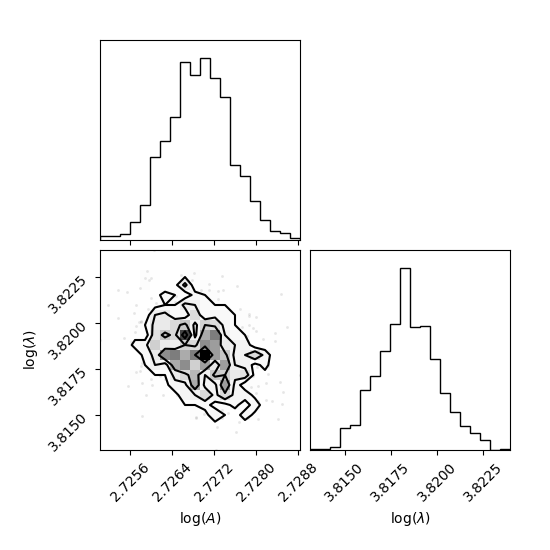
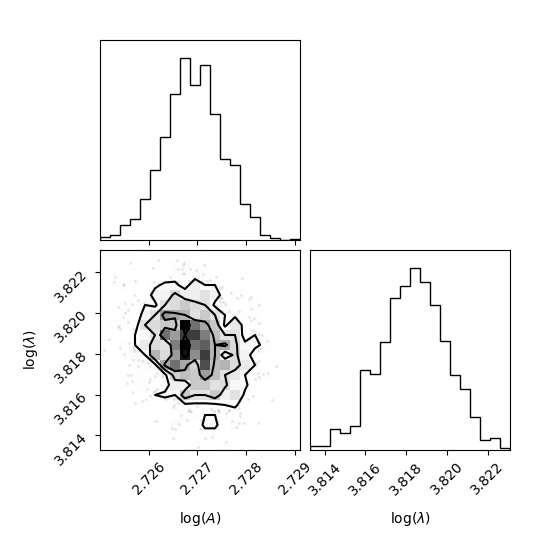
DOC: Updates on the UQ example
* Reduce the number of iteration to 5000
* autocorr calculation uses the remaining chains after discarding the
burn-in time

diff --git a/docs/source/auto_examples/example_uq_mcmc.py b/docs/source/auto_examples/example_uq_mcmc.py
@@ -173,7 +173,7 @@ for ii, bound in enumerate(bounds):
     p0[:, :, ii] = np.random.uniform(*bound, (4, 4))
 
 # Run MCMC
-sampler.run_mcmc(p0, 10000)
+sampler.run_mcmc(p0, 5000)
 
 # Retrieve the chain
 chain = sampler.chain
@@ -214,9 +214,11 @@ print(f"Estimated burn-in time: {burnin}")
 
 
 # Estimate the autocorrelation length for each temperature
+chain_no_burnin = chain[:, :, burnin:]
+
 acorr_array = np.empty((ntemps, nwalkers, ndim))
 for tidx in range(ntemps):
-    acorr_array[tidx] = autocorr(chain[tidx], c=1, quiet=True)
+    acorr_array[tidx] = autocorr(chain_no_burnin[tidx], c=1, quiet=True)
 
 thin = int(np.ceil(np.max(acorr_array)))
 print(f"Estimated autocorrelation length: {thin}")
@@ -239,7 +241,7 @@ print(f"Estimated autocorrelation length: {thin}")
 
 
 # Assess the convergence for each temperature
-samples = chain[:, :, burnin::thin]
+samples = chain_no_burnin[:, :, ::thin]
 
 threshold = 1.1  # Threshold for rhat
 rhat_array = np.empty(ntemps)

diff --git a/examples/example_uq_mcmc.py b/examples/example_uq_mcmc.py
@@ -173,7 +173,7 @@ for ii, bound in enumerate(bounds):
     p0[:, :, ii] = np.random.uniform(*bound, (4, 4))
 
 # Run MCMC
-sampler.run_mcmc(p0, 10000)
+sampler.run_mcmc(p0, 5000)
 
 # Retrieve the chain
 chain = sampler.chain
@@ -214,9 +214,11 @@ print(f"Estimated burn-in time: {burnin}")
 
 
 # Estimate the autocorrelation length for each temperature
+chain_no_burnin = chain[:, :, burnin:]
+
 acorr_array = np.empty((ntemps, nwalkers, ndim))
 for tidx in range(ntemps):
-    acorr_array[tidx] = autocorr(chain[tidx], c=1, quiet=True)
+    acorr_array[tidx] = autocorr(chain_no_burnin[tidx], c=1, quiet=True)
 
 thin = int(np.ceil(np.max(acorr_array)))
 print(f"Estimated autocorrelation length: {thin}")
@@ -239,7 +241,7 @@ print(f"Estimated autocorrelation length: {thin}")
 
 
 # Assess the convergence for each temperature
-samples = chain[:, :, burnin::thin]
+samples = chain_no_burnin[:, :, ::thin]
 
 threshold = 1.1  # Threshold for rhat
 rhat_array = np.empty(ntemps)

diff --git a/docs/source/auto_examples/example_uq_mcmc.rst b/docs/source/auto_examples/example_uq_mcmc.rst
@@ -151,11 +151,11 @@ information about this step can be found in :ref:`tut_kim_sw` and
 
     /home/yonatank/.local/lib/python3.8/site-packages/numpy/linalg/linalg.py:2500: VisibleDeprecationWarning: Creating an ndarray from ragged nested sequences (which is a list-or-tuple of lists-or-tuples-or ndarrays with different lengths or shapes) is deprecated. If you meant to do this, you must specify 'dtype=object' when creating the ndarray.
       x = asarray(x)
-    2022-05-31 21:58:08.804 | INFO     | kliff.dataset.dataset:_read:397 - 4 configurations read from /home/yonatank/modules/kliff/examples/Si_training_set_4_configs
-    2022-05-31 21:58:08.806 | INFO     | kliff.calculators.calculator:create:107 - Create calculator for 4 configurations.
-    2022-05-31 21:58:08.807 | INFO     | kliff.loss:minimize:290 - Start minimization using method: L-BFGS-B.
-    2022-05-31 21:58:08.807 | INFO     | kliff.loss:_scipy_optimize:404 - Running in serial mode.
-    2022-05-31 21:58:08.941 | INFO     | kliff.loss:minimize:292 - Finish minimization using method: L-BFGS-B.
+    2022-06-02 10:34:33.398 | INFO     | kliff.dataset.dataset:_read:397 - 4 configurations read from /home/yonatank/modules/kliff/examples/Si_training_set_4_configs
+    2022-06-02 10:34:33.402 | INFO     | kliff.calculators.calculator:create:107 - Create calculator for 4 configurations.
+    2022-06-02 10:34:33.403 | INFO     | kliff.loss:minimize:290 - Start minimization using method: L-BFGS-B.
+    2022-06-02 10:34:33.404 | INFO     | kliff.loss:_scipy_optimize:404 - Running in serial mode.
+    2022-06-02 10:34:33.575 | INFO     | kliff.loss:minimize:292 - Finish minimization using method: L-BFGS-B.
     #================================================================================
     # Model parameters that are optimized.
     # Note that the parameters are in the transformed space if 
@@ -289,7 +289,7 @@ to specify the number of steps or iterations to take.
         p0[:, :, ii] = np.random.uniform(*bound, (4, 4))
 
     # Run MCMC
-    sampler.run_mcmc(p0, 10000)
+    sampler.run_mcmc(p0, 5000)
 
     # Retrieve the chain
     chain = sampler.chain
@@ -357,16 +357,18 @@ every :math:`\tau`-th iteration from the remaining chain, where :math:`\tau` is 
 autocorrelation length, to ensure uncorrelated samples.
 This calculation can be done using :func:`~kliff.uq.mcmc_utils.autocorr`.
 
-.. GENERATED FROM PYTHON SOURCE LINES 214-225
+.. GENERATED FROM PYTHON SOURCE LINES 214-227
 
 .. code-block:: default
 
 
 
     # Estimate the autocorrelation length for each temperature
+    chain_no_burnin = chain[:, :, burnin:]
+
     acorr_array = np.empty((ntemps, nwalkers, ndim))
     for tidx in range(ntemps):
-        acorr_array[tidx] = autocorr(chain[tidx], c=1, quiet=True)
+        acorr_array[tidx] = autocorr(chain_no_burnin[tidx], c=1, quiet=True)
 
     thin = int(np.ceil(np.max(acorr_array)))
     print(f"Estimated autocorrelation length: {thin}")
@@ -382,12 +384,12 @@ This calculation can be done using :func:`~kliff.uq.mcmc_utils.autocorr`.
 
  .. code-block:: none
 
-    Estimated autocorrelation length: 48
+    Estimated autocorrelation length: 14
 
 
 
 
-.. GENERATED FROM PYTHON SOURCE LINES 226-239
+.. GENERATED FROM PYTHON SOURCE LINES 228-241
 
 .. note::
    :func:`~kliff.uq.mcmc_utils.acorr` is a wrapper for emcee.autocorr.integrated_time_,
@@ -403,14 +405,14 @@ reduction factor (PSRF), denoted by :math:`\hat{R}^p`. The value of :math:`\hat{
 declines to 1 as the number of iterations goes to infinity. A common threshold is about
 1.1, but higher threshold has also been used.
 
-.. GENERATED FROM PYTHON SOURCE LINES 239-252
+.. GENERATED FROM PYTHON SOURCE LINES 241-254
 
 .. code-block:: default
 
 
 
     # Assess the convergence for each temperature
-    samples = chain[:, :, burnin::thin]
+    samples = chain_no_burnin[:, :, ::thin]
 
     threshold = 1.1  # Threshold for rhat
     rhat_array = np.empty(ntemps)
@@ -430,12 +432,12 @@ declines to 1 as the number of iterations goes to infinity. A common threshold i
 
  .. code-block:: none
 
-    $\hat{r}^p$ values: [1.04731424 1.08606168 1.03525868 1.02960951]
+    $\hat{r}^p$ values: [1.0991534  1.07341457 1.07658106 1.02770675]
 
 
 
 
-.. GENERATED FROM PYTHON SOURCE LINES 253-265
+.. GENERATED FROM PYTHON SOURCE LINES 255-267
 
 .. note::
    :func:`~kliff.uq.mcmc_utils.rhat` only computes the PSRF for one temperature, so that
@@ -450,7 +452,7 @@ parameters can be obtained by observing the distribution of the samples. As an e
 we will use corner_ Python package to present the MCMC result at sampling
 temperature 1.0 as a corner plot.
 
-.. GENERATED FROM PYTHON SOURCE LINES 265-269
+.. GENERATED FROM PYTHON SOURCE LINES 267-271
 
 .. code-block:: default
 
@@ -478,7 +480,7 @@ temperature 1.0 as a corner plot.
 
 
 
-.. GENERATED FROM PYTHON SOURCE LINES 270-280
+.. GENERATED FROM PYTHON SOURCE LINES 272-282
 
 .. note::
    As an alternative, KLIFF also provides a wrapper to emcee_.This can be accessed by
@@ -494,7 +496,7 @@ temperature 1.0 as a corner plot.
 
 .. rst-class:: sphx-glr-timing
 
-   **Total running time of the script:** ( 5 minutes  44.727 seconds)
+   **Total running time of the script:** ( 3 minutes  9.781 seconds)
 
 
 .. _sphx_glr_download_auto_examples_example_uq_mcmc.py:

diff --git a/docs/source/auto_examples/sg_execution_times.rst b/docs/source/auto_examples/sg_execution_times.rst
@@ -5,10 +5,10 @@
 
 Computation times
 =================
-**05:44.727** total execution time for **auto_examples** files:
+**03:09.781** total execution time for **auto_examples** files:
 
 +---------------------------------------------------------------------------------------------------+-----------+--------+
-| :ref:`sphx_glr_auto_examples_example_uq_mcmc.py` (``example_uq_mcmc.py``)                         | 05:44.727 | 0.0 MB |
+| :ref:`sphx_glr_auto_examples_example_uq_mcmc.py` (``example_uq_mcmc.py``)                         | 03:09.781 | 0.0 MB |
 +---------------------------------------------------------------------------------------------------+-----------+--------+
 | :ref:`sphx_glr_auto_examples_example_kim_SW_Si.py` (``example_kim_SW_Si.py``)                     | 00:00.000 | 0.0 MB |
 +---------------------------------------------------------------------------------------------------+-----------+--------+
